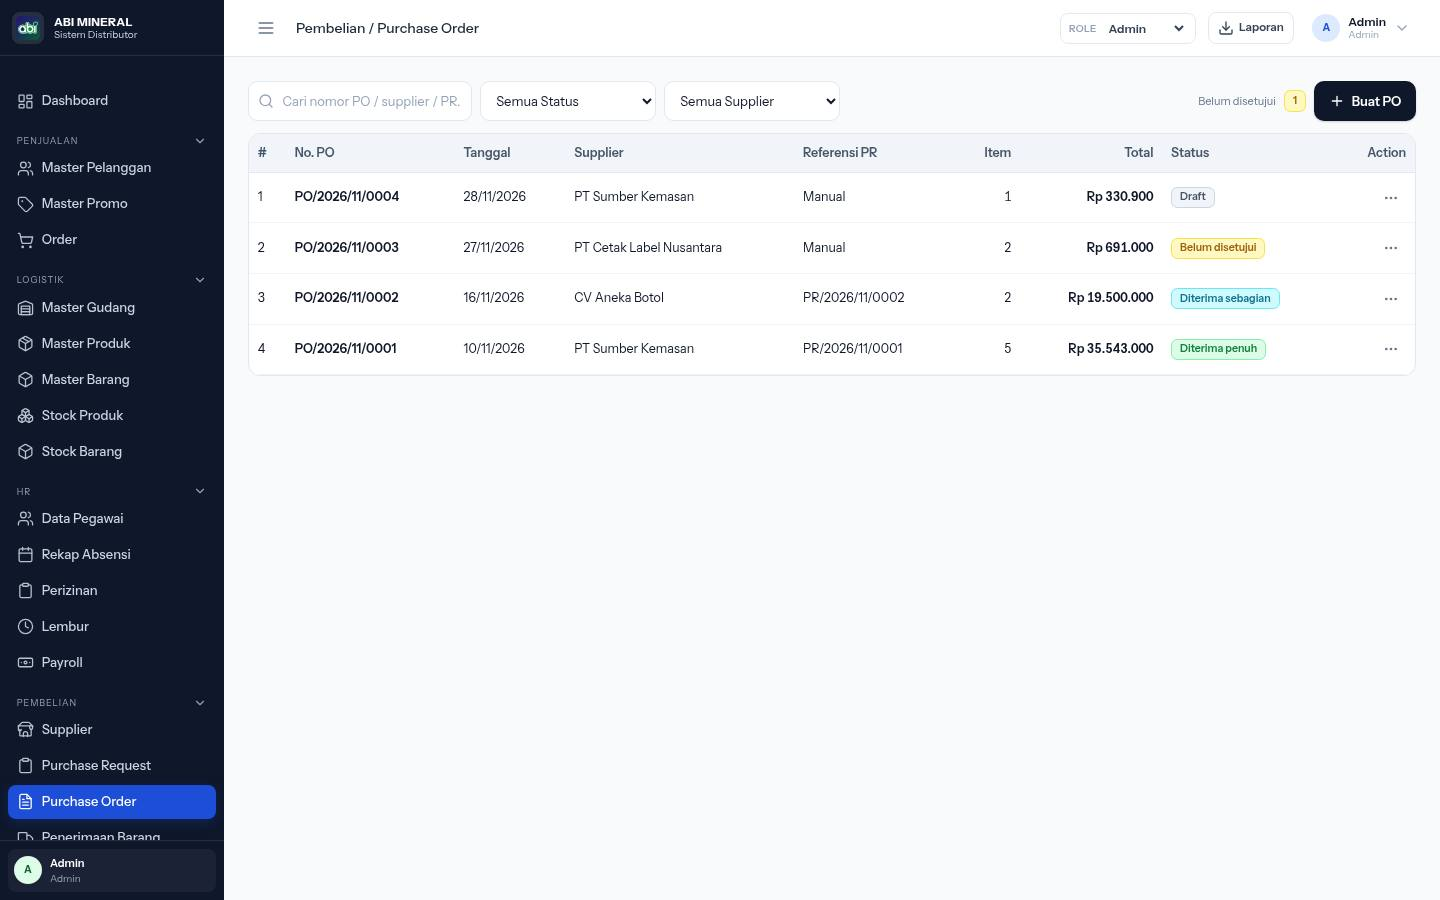
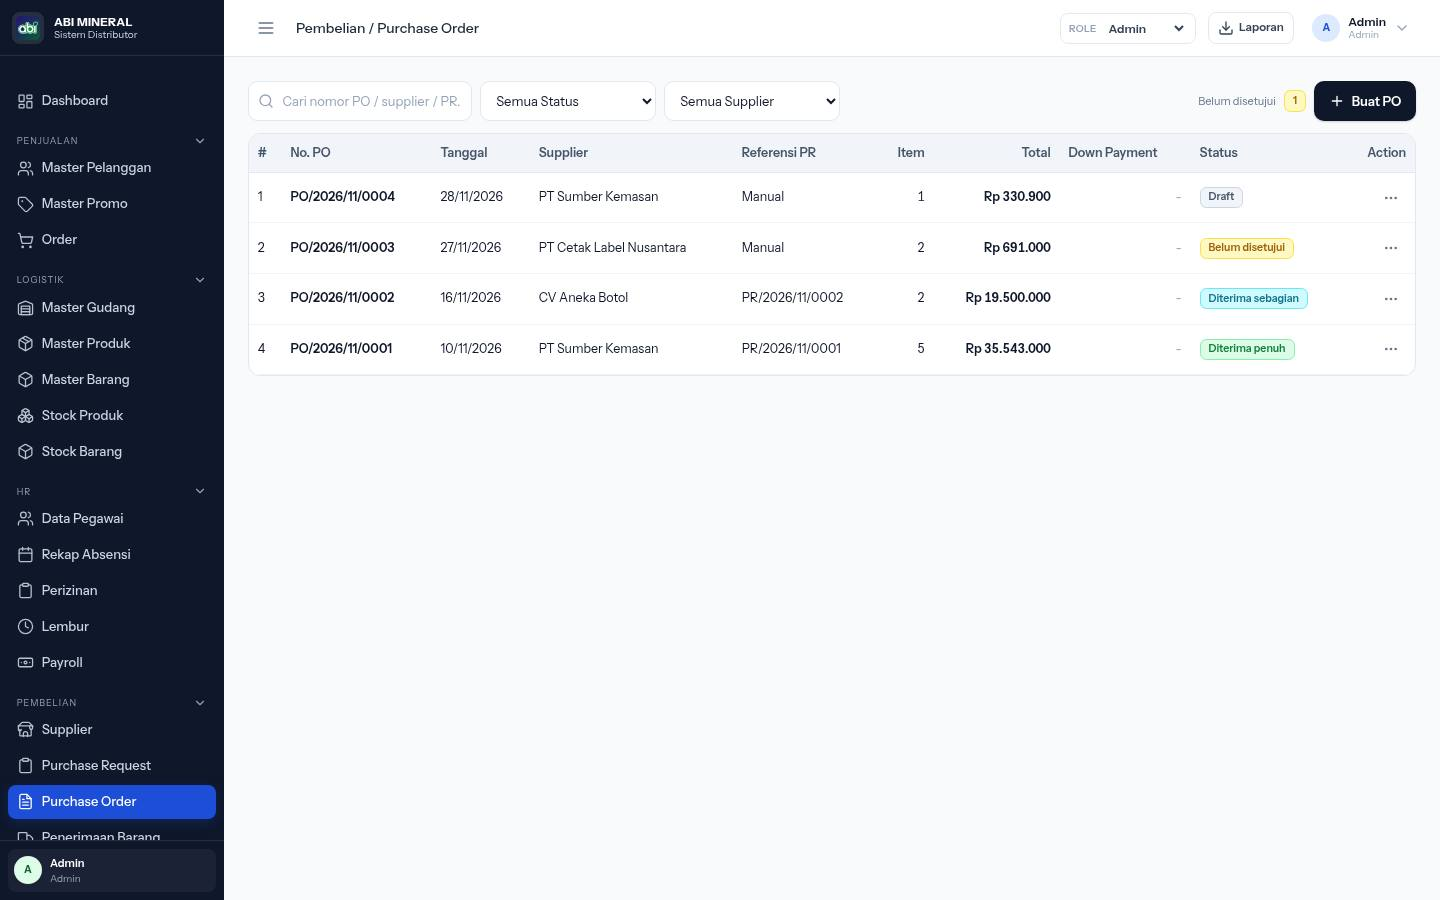
feat: add down payment column to PO list

diff --git a/index.html b/index.html
@@ -2152,7 +2152,7 @@
         </div>
         <div class="table-wrap">
           <table class="data-table">
-            <thead><tr><th>#</th><th>No. PO</th><th>Tanggal</th><th>Supplier</th><th>Referensi PR</th><th class="num">Item</th><th class="num">Total</th><th>Status</th><th class="actions">Action</th></tr></thead>
+            <thead><tr><th>#</th><th>No. PO</th><th>Tanggal</th><th>Supplier</th><th>Referensi PR</th><th class="num">Item</th><th class="num">Total</th><th>Down Payment</th><th>Status</th><th class="actions">Action</th></tr></thead>
             <tbody>
               <template x-for="(po, i) in filteredPurchaseOrders" :key="po.id">
                 <tr>
@@ -2163,18 +2163,22 @@
                   <td x-text="po.prCode || 'Manual'"></td>
                   <td class="num" x-text="(po.items || []).length"></td>
                   <td class="num font-semibold" x-text="rp(po.total)"></td>
+                  <td class="num">
+                    <div x-show="poPaymentScheme(po) !== 'credit'">
+                      <span class="badge" :class="poPaymentStatusBadge(po)" x-text="poPaymentStatusLabel(po)"></span>
+                      <div class="sub" x-text="rp(poPaymentTarget(po))"></div>
+                    </div>
+                    <span x-show="poPaymentScheme(po) === 'credit'" class="text-slate-400">-</span>
+                  </td>
                   <td>
                     <span class="badge" :class="poStatusBadge(po.status)" x-text="poStatusLabel(po.status)"></span>
-                    <div class="mt-1" x-show="poPaymentScheme(po) !== 'credit'">
-                      <span class="badge" :class="poPaymentStatusBadge(po)" x-text="poPaymentStatusLabel(po)"></span>
-                    </div>
                   </td>
                   <td class="actions">
                     <button class="icon-btn icon-btn-sm" @click.stop="openActionMenu($event, 'purchase-orders', po)" title="Aksi"><svg class="icon icon-sm"><use href="#i-more"></use></svg></button>
                   </td>
                 </tr>
               </template>
-              <tr x-show="filteredPurchaseOrders.length === 0"><td colspan="9"><div class="empty"><svg class="icon icon-lg text-slate-300"><use href="#i-folder-search"></use></svg><div class="font-semibold mt-2">Belum ada Purchase Order</div><div class="text-xs text-slate-400">Buat PO dari PR yang disetujui atau secara manual.</div></div></td></tr>
+              <tr x-show="filteredPurchaseOrders.length === 0"><td colspan="10"><div class="empty"><svg class="icon icon-lg text-slate-300"><use href="#i-folder-search"></use></svg><div class="font-semibold mt-2">Belum ada Purchase Order</div><div class="text-xs text-slate-400">Buat PO dari PR yang disetujui atau secara manual.</div></div></td></tr>
             </tbody>
           </table>
         </div>

diff --git a/app-docs.md b/app-docs.md
@@ -127,6 +127,7 @@ Purchase Order (L3):
   - `Cr Uang Muka Pembelian` sebesar DP yang diterapkan
 - Seluruh DP dipakai pada penerimaan pertama. Jika nilai DP melebihi nilai penerimaan pertama, sisanya otomatis dipakai pada penerimaan berikutnya.
 - Master Supplier menyimpan default **skema pembayaran, DP nominal, dan termin**. Nilai ini hanya prefill dan tetap bisa diubah di PO.
+- Daftar PO memiliki kolom **Down Payment** setelah Total: menampilkan status DP dan nominal target, atau `-` untuk PO Tempo.
 - Edit PO dan **Ubah Harga** dikunci setelah ada pembayaran awal.
 - PO dapat dibatalkan pada status `draft`, `pending_approval`, `approved`, dan `sent` selama belum ada penerimaan.
 - Jika PO sudah dibayar DP/lunas, popup pembatalan menawarkan **refund**:
